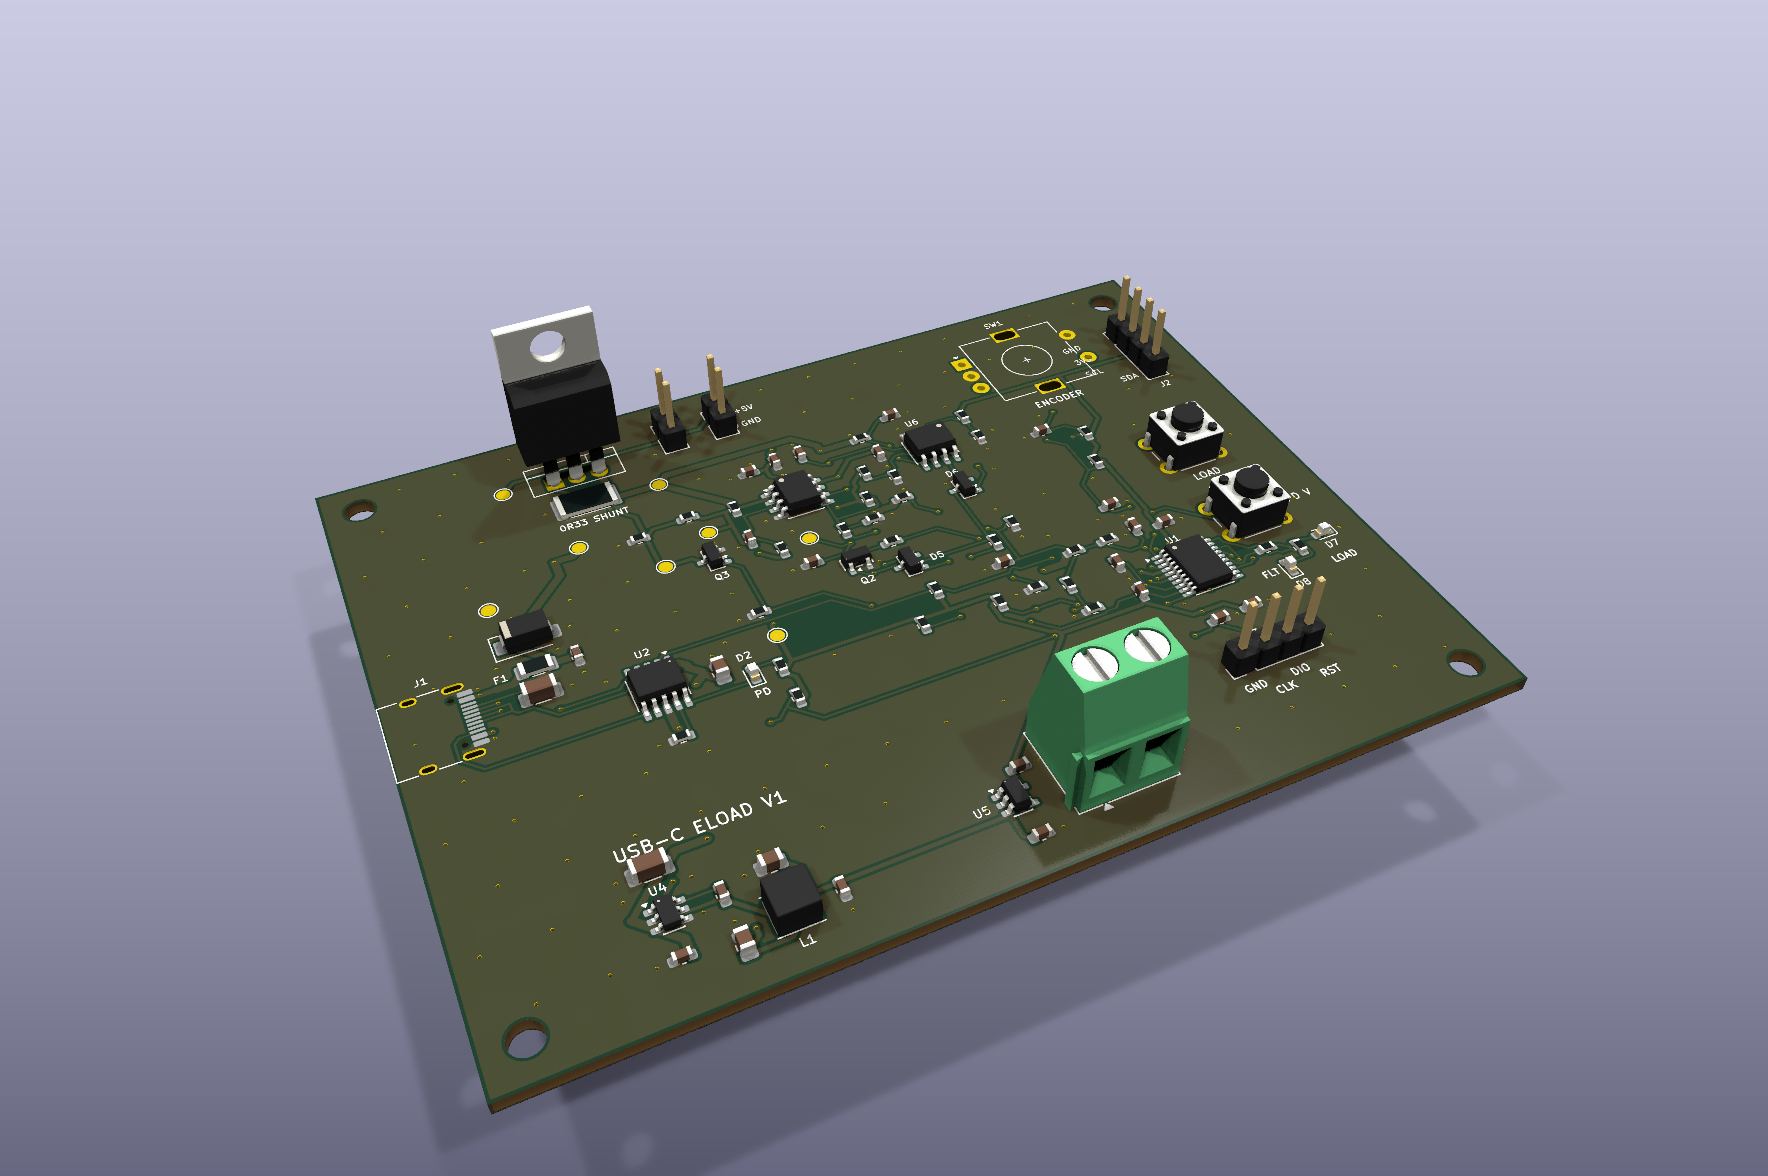
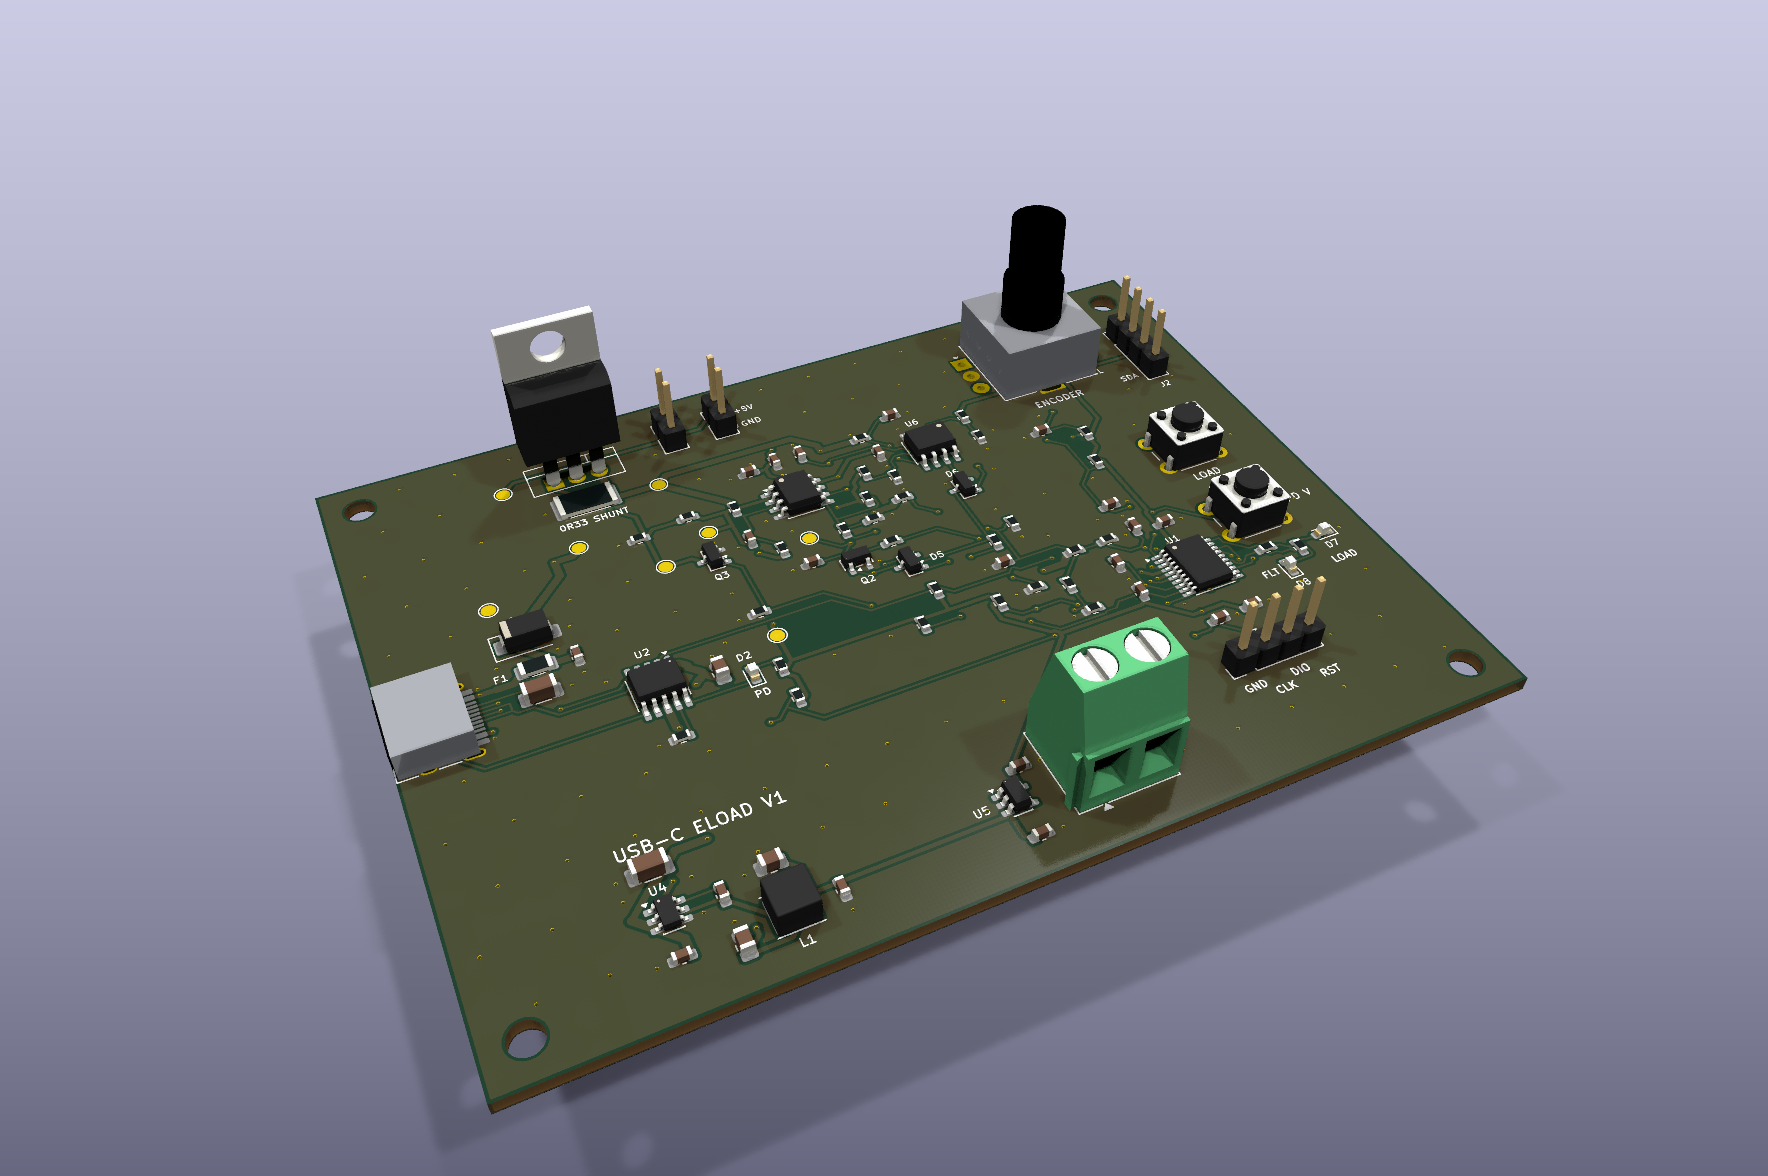
3D render: add simplified USB-C and encoder models

Changed region(s): [[0.5288, 0.1531, 0.6222, 0.3367], [0.1867, 0.551, 0.28, 0.6735]]

diff --git a/README.md b/README.md
@@ -35,7 +35,7 @@ It was designed to be hand-assembled with paste and hot air (0603/0805, SOIC, TS
 
 ![3D render of the board](output/render_angle.png)
 
-*KiCad 3D render of the board. The USB-C receptacle (left edge), rotary encoder and OLED module have no 3D models in KiCad's library, so they show as outlines only. In the finished tool the OLED plugs into J2, and the TO-220 MOSFET (top-left) sits on a heatsink that hangs over the board edge.*
+*KiCad 3D render of the board. The USB-C receptacle (left edge) and rotary encoder (top right) are simplified placeholder blocks, because KiCad's library has no 3D models for those parts (3d/). The OLED module isn't modelled. In the finished tool the OLED plugs into J2, and the TO-220 MOSFET (top-left) sits on a heatsink that hangs over the board edge.*
 
 ![PCB layout, top layer](output/layout_top.png)
 
